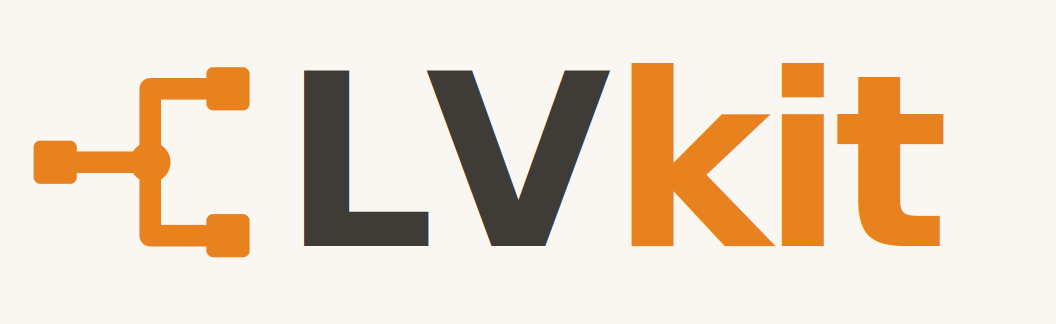
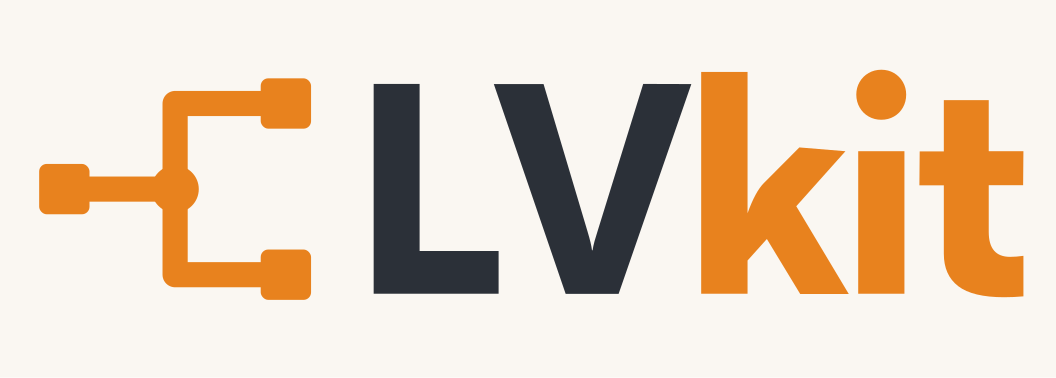
branding: final identity — Selawik wordmark, symmetric mark, slate palette
Locks the lvkit visual identity.

- Palette: cream #faf7f2 · slate #2b3038 · orange #e8821e (wordmark variants are
  true inverses; slate reused as the dark ground on tile/wordmark).
- Wordmark: set in Selawik Bold (Microsoft's OFL, metric-compatible Segoe UI
  substitute) and OUTLINED to vector paths -> font-independent, SVG==PNG, tight
  L-V. -light (slate LV) / -dark (cream LV) variants. Provenance in FONTS.md.
- Mark: symmetric orthogonal fan-out about the junction (equal 17-unit wire runs
  each side); junction dot centred, margins matched (L=R, T=B).
- Extension Marketplace icon regenerated on slate; all PNGs re-rendered (mark,
  icon 128/256, wordmarks, favicons) via cairosvg.

Changed region(s): [[0.125, 0.1852, 0.9688, 0.8025], [0.0312, 0.4321, 0.0938, 0.5864]]

diff --git a/branding/FONTS.md b/branding/FONTS.md
@@ -1,0 +1,16 @@
+# Wordmark typography
+
+The **LVkit** wordmark is set in **Selawik Bold** and shipped as **outlined vector
+paths** (not live `<text>`), so it renders identically in every browser and
+rasteriser — no font dependency, pixel-stable at any size.
+
+- **Selawik** is Microsoft's **open, metric-compatible substitute for Segoe UI**,
+  released under the **SIL Open Font License 1.1** (© 2015 Microsoft Corporation).
+  The OFL permits use, embedding, and derivative works — including outlining glyphs
+  into a logo. We ship the outlines, not the font file.
+- Source: https://github.com/microsoft/Selawik (release 1.01, `selawkb.ttf`).
+
+To re-outline in a different face, drop a `.ttf` and re-run
+`.tmp/outline_wordmark.py` with the new `FONT` path.
+
+_Not legal advice._
